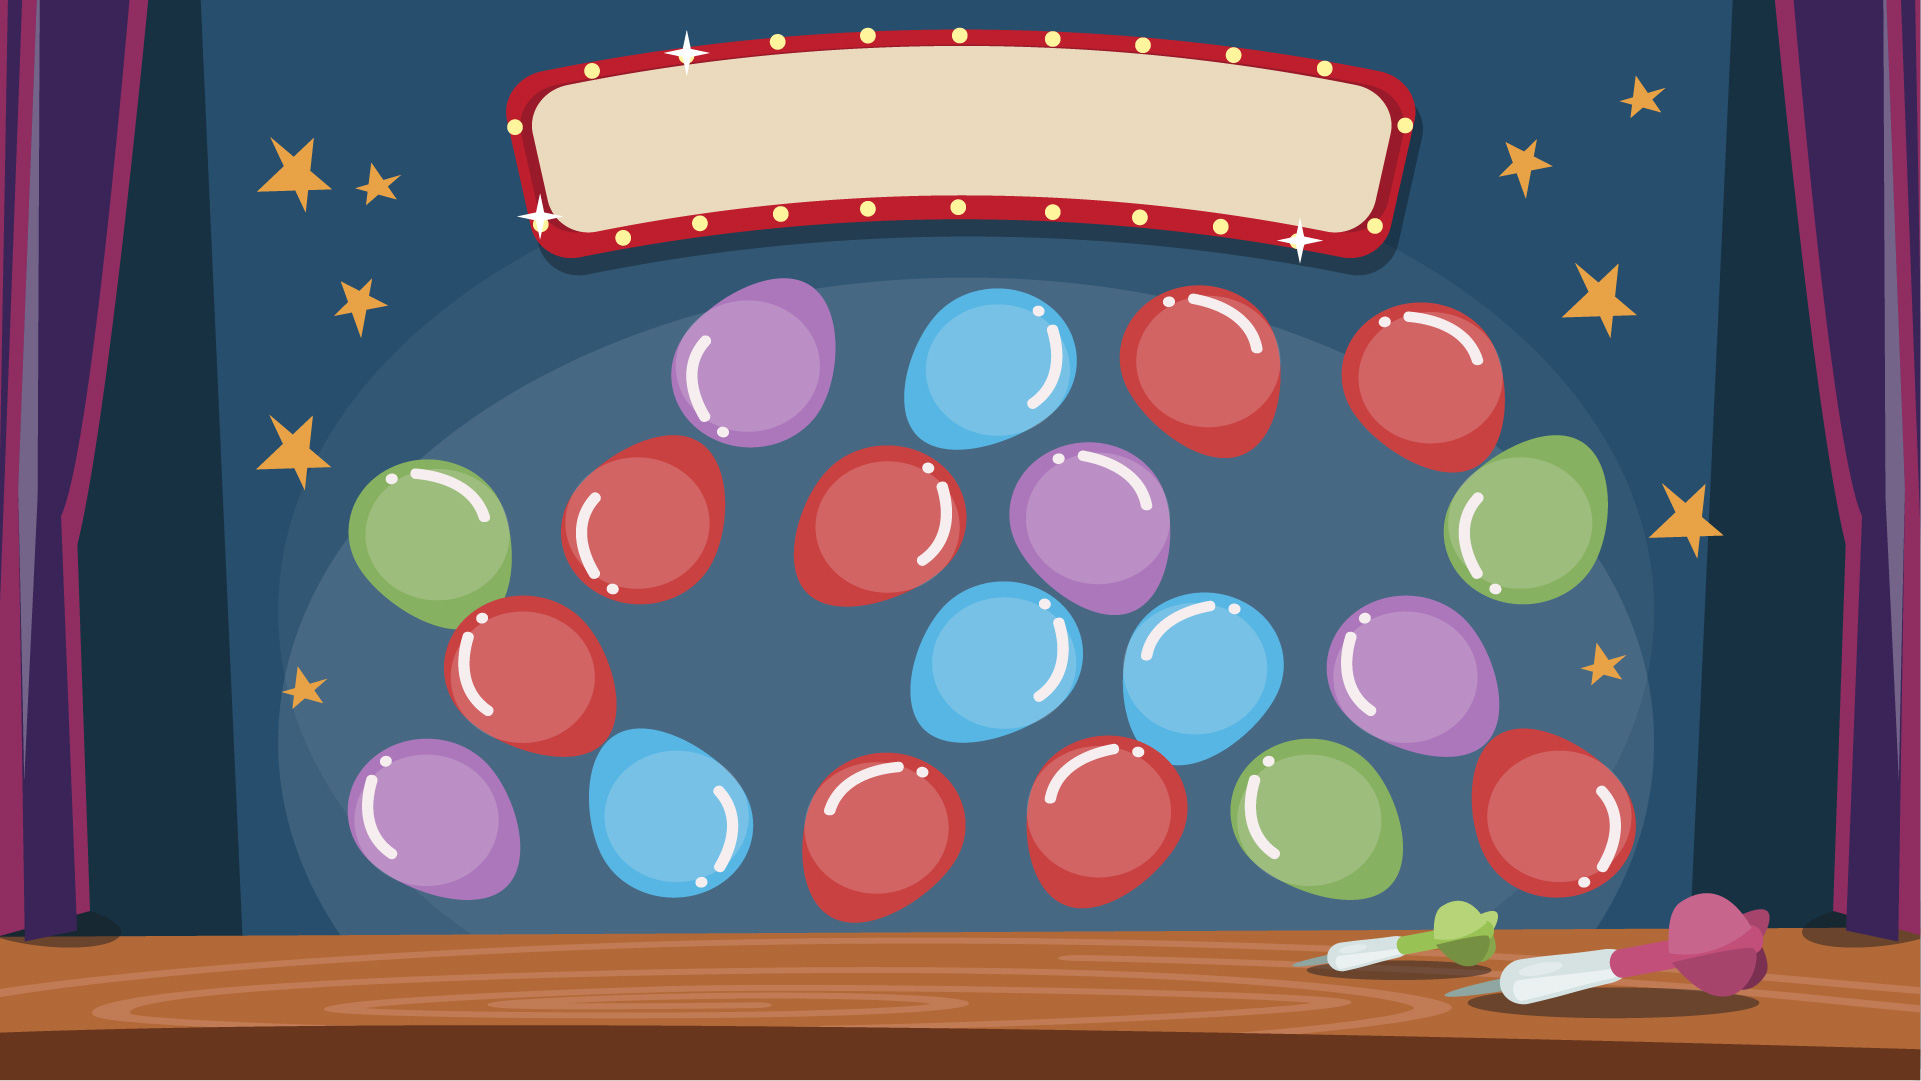
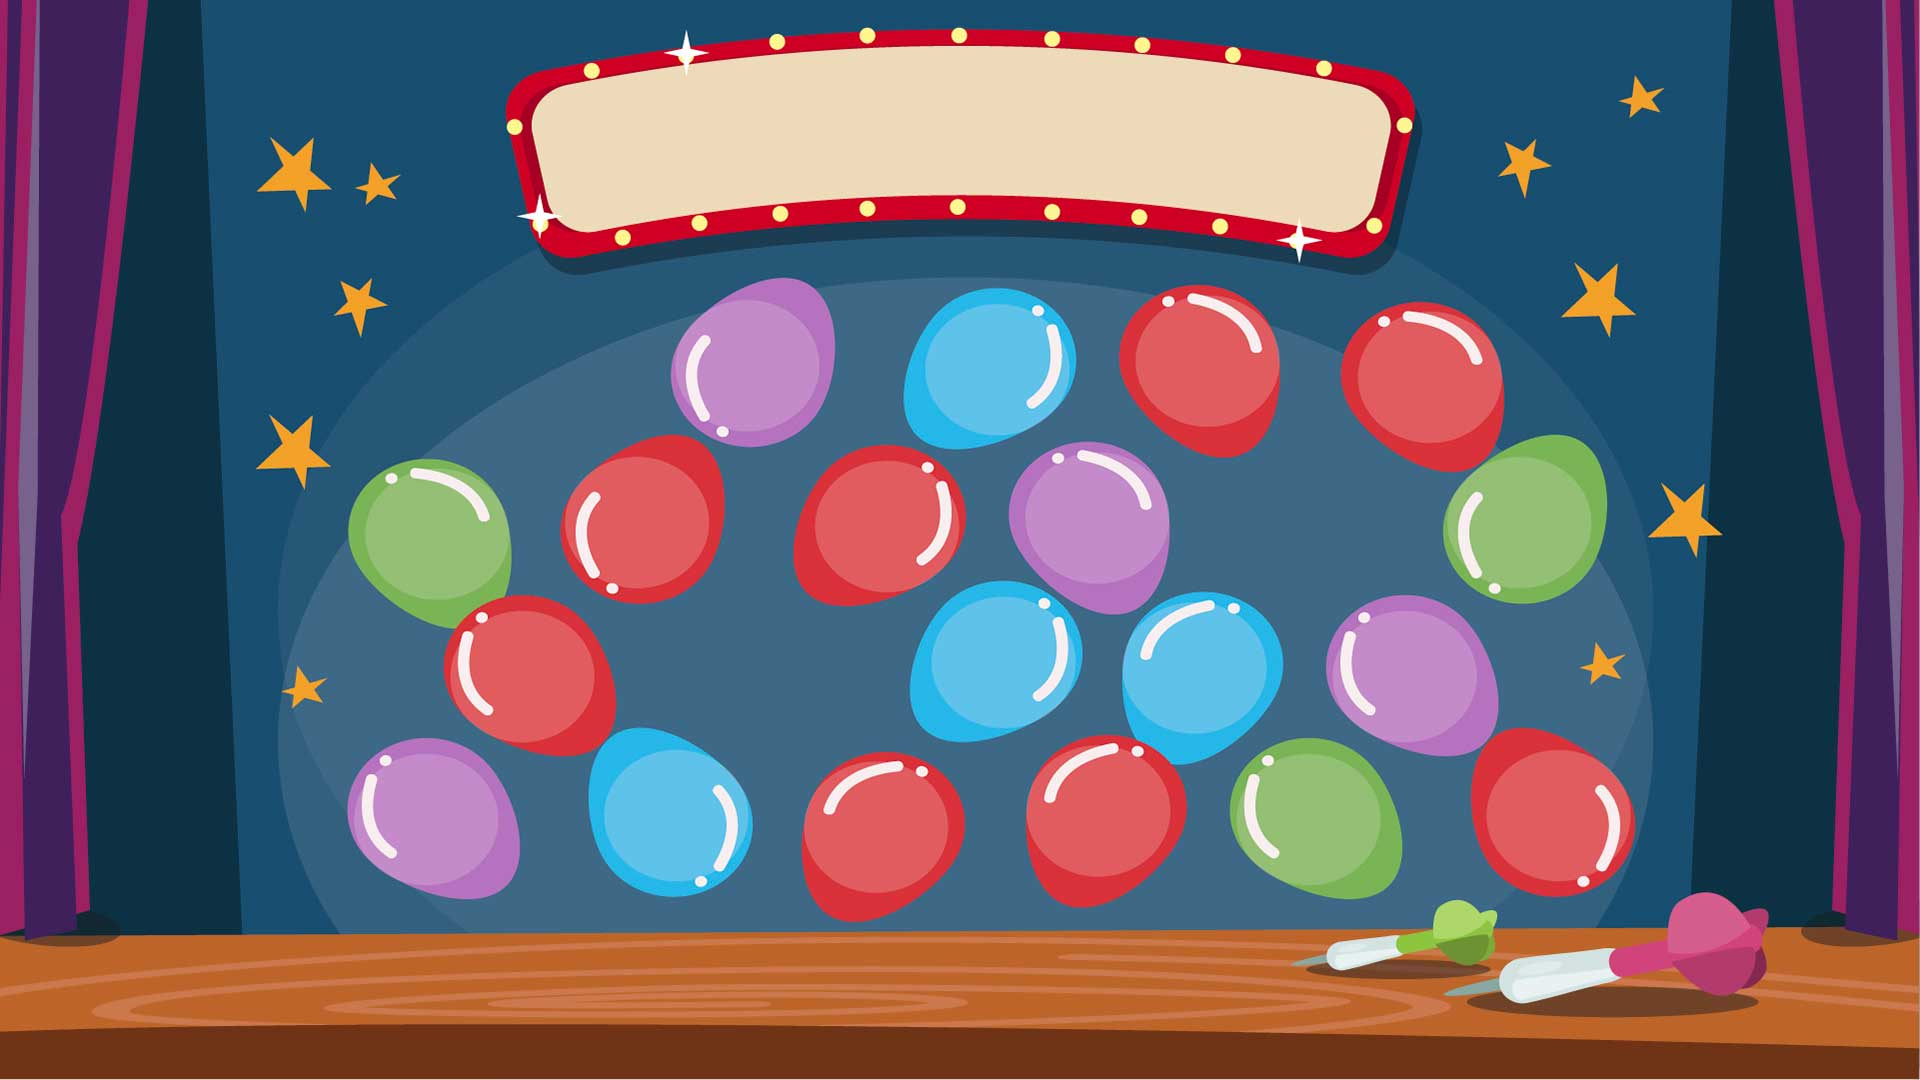
screen 5 is done

diff --git a/sell/assets/css/spin.css b/sell/assets/css/spin.css
@@ -1,0 +1,223 @@
+@font-face {
+    font-family: 'the_bold_fontbold';
+    src: url('../fonts/theboldfont-webfont.woff2') format('woff2');
+    font-weight: normal;
+    font-style: normal;
+
+}
+*, *:before, *:after {
+    box-sizing: border-box;
+}
+html {
+    padding: 0;
+    margin: 0;
+    min-height: 100%;
+}
+body {
+    padding: 0;
+    margin: 0;
+    background-image: url(../images/body-bg-spin.jpg);
+    font-family: 'the_bold_fontbold';
+    background-size: cover;
+    background-repeat: no-repeat;
+    -webkit-font-smoothing: antialiased;
+    background-position: center;
+}
+
+.sell ul {
+    margin: 0;
+    padding: 0;
+    position: relative;
+}
+
+.sell ul li {
+    margin: 0;
+    padding: 0;
+    list-style: none;
+    position: absolute;
+    display: none;
+}
+
+.sell ul li.text {
+    font-size: 36px;
+    line-height: 1.5;
+    color: #fed720;
+}
+
+.sell ul li.text p {
+    margin: 0;
+    padding: 0;
+    line-height: 1.2;
+}
+
+.sell ul li:nth-child(1) {
+    left: 920px;
+    top: 465px;
+}
+
+.sell ul li:nth-child(2) {
+    left: 985px;
+    top: 447px;
+}
+
+.sell ul li:nth-child(3) {
+    left: 1075px;
+    top: 555px;
+}
+
+.sell ul li:nth-child(4) {
+    left: 1170px;
+    top: 620px;
+}
+
+.sell ul li:nth-child(5) {
+    left: 1080px;
+    top: 730px;
+}
+
+.sell ul li:nth-child(6) {
+    left: 1040px;
+    top: 755px;
+}
+
+.sell ul li:nth-child(7) {
+    left: 892px;
+    top: 830px;
+}
+
+.sell ul li:nth-child(8) {
+    left: 830px;
+    top: 805px;
+}
+
+.sell ul li:nth-child(9) {
+    left: 765px;
+    top: 735px;
+}
+
+.sell ul li:nth-child(10) {
+    left: 670px;
+    top: 615px;
+}
+
+.sell ul li:nth-child(11) {
+    left: 770px;
+    top: 555px;
+}
+
+.sell ul li:nth-child(12) {
+    left: 855px;
+    top: 475px;
+}
+.sell ul li:nth-child(4).text {
+    transform: rotate( 93deg );
+    top: 627px;
+    left: 1110px;
+}
+.sell ul li:nth-child(6).text {
+    transform: rotate(149deg);
+    left: 1013px;
+    top: 739px;
+}
+.sell ul li:nth-child(8).text {
+    transform: rotate( -53deg );
+    left: 822px;
+    top: 794px;
+}
+.sell ul li:nth-child(12).text {
+    transform: rotate(328deg);
+    left: 858px;
+    top: 482px;
+}
+
+.sell ul li.user img {
+    width: 113px;
+    height: 113px;
+    object-fit: cover;
+    object-position: top;
+    border-radius: 50%;
+}
+
+.content {
+    position: absolute;
+    left: 0;
+    top: 0;
+    width: 100%;
+    height: 100%;
+    display: flex;
+    flex-direction: column;
+    justify-content: space-between;
+    align-items: center;
+}
+
+.content h1 {
+    color: #6A30A4;
+    font-size: 68px;
+    line-height: 1;
+    margin: 190px 0 0 -25px;
+    padding: 0 15px;
+    text-overflow: ellipsis;
+    white-space: nowrap;
+    text-align: center;
+    overflow: hidden;
+    width: 100%;
+    max-width: 520px;
+}
+
+.content h1 span {
+    color: #E82B41;
+}
+
+.content p {
+    margin: 0;
+    padding: 6px 45px;
+    color: #FDEABF;
+    font-size: 36px;
+    text-overflow: ellipsis;
+    white-space: nowrap;
+    text-align: center;
+    overflow: hidden;
+    width: 100%;
+    max-width: 560px;
+    background: #6A30A4;
+    border-radius: 50px;
+    position: relative;
+}
+
+.content p:before {
+    position: absolute;
+    content: '';
+    width: 30px;
+    height: 30px;
+    background-image: url(../images/spin-bottom-dots.png);
+    background-repeat: no-repeat;
+    left: 10px;
+    top: 18px;
+}
+
+.content p::after {
+    position: absolute;
+    content: '';
+    width: 30px;
+    height: 30px;
+    background-image: url(../images/spin-bottom-dots.png);
+    background-repeat: no-repeat;
+    right: 10px;
+    top: 18px;
+}
+
+/*=================================
+Responsive CSS
+==================================*/
+
+@media screen and (device-height: 1080px) and (device-width: 1920px) {
+    .sell ul li {
+        display: block;
+    }
+}
+@media screen and (max-width: 1900px) {
+    body {
+        background-position: center top;
+        background-size: auto;
+    }
+}

diff --git a/sell/sell-spin.html b/sell/sell-spin.html
@@ -1,0 +1,49 @@
+<!DOCTYPE html>
+<html lang="en">
+<head>
+    <meta charset="UTF-8">
+    <meta http-equiv="X-UA-Compatible" content="IE=edge">
+    <meta name="viewport" content="width=device-width, initial-scale=1.0">
+    <title>SELL Spin</title>
+    <link rel="stylesheet" href="assets/css/spin.css">
+</head>
+<body class="sell-spin">
+    <section class="sell">
+        <div class="content">
+            <h1>SELL, <span>SELL,</span> SELL</h1>
+            <p>COMPETITION ENDS IN A DAY</p>
+        </div>
+        <ul>
+
+            
+            <li class="star"><img src="./assets/images/spin-star.png" alt="user"/></li>
+            <li class="user"><img src="./assets/images/male2.jpg" alt="user"/></li>
+            <li class="star"><img src="./assets/images/spin-star.png" alt="user"/></li>
+            <li class="text"><p>2</p><p>5</p></li>
+            <li class="star"><img src="./assets/images/spin-star.png" alt="user"/></li>
+            <li class="text"><p>5</p><p>0</p><p>0</p></li>
+            <li class="user"><img src="./assets/images/male.jpg" alt="user"/></li>
+            <li class="text"><p>LOSE</p></li>
+            <li class="star"><img src="./assets/images/spin-star.png" alt="user"/></li>
+            <li class="user"><img src="./assets/images/female.jpg" alt="user"/></li>
+            <li class="star"><img src="./assets/images/spin-star.png" alt="user"/></li>
+            <li class="text"><p>5</p><p>0</p></li>
+            
+
+<!--
+            <li class="text"><p>5</p><p>0</p><p>0</p></li>
+            <li class="text"><p>5</p><p>0</p><p>0</p></li>
+            <li class="text"><p>5</p><p>0</p><p>0</p></li>
+            <li class="text"><p>5</p><p>0</p><p>0</p></li>
+            <li class="text"><p>5</p><p>0</p><p>0</p></li>
+            <li class="text"><p>5</p><p>0</p><p>0</p></li>
+            <li class="text"><p>5</p><p>0</p><p>0</p></li>
+            <li class="text"><p>5</p><p>0</p><p>0</p></li>
+            <li class="text"><p>5</p><p>0</p><p>0</p></li>
+            <li class="text"><p>5</p><p>0</p><p>0</p></li>
+            <li class="text"><p>5</p><p>0</p><p>0</p></li>
+            <li class="text"><p>5</p><p>0</p><p>0</p></li>  -->
+        </ul>
+    </section>
+</body>
+</html>

diff --git a/sell/assets/css/darts.css b/sell/assets/css/darts.css
@@ -16,7 +16,7 @@ html {
 body {
     padding: 0;
     margin: 0;
-    background-image: url(../images/body-bg-darts.png);
+    background-image: url(../images/body-bg-darts.jpg);
     font-family: 'the_bold_fontbold';
     background-size: cover;
     background-repeat: no-repeat;
